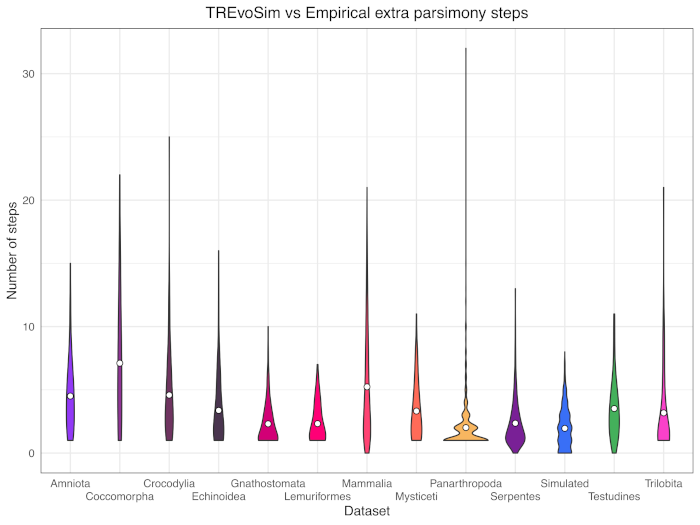
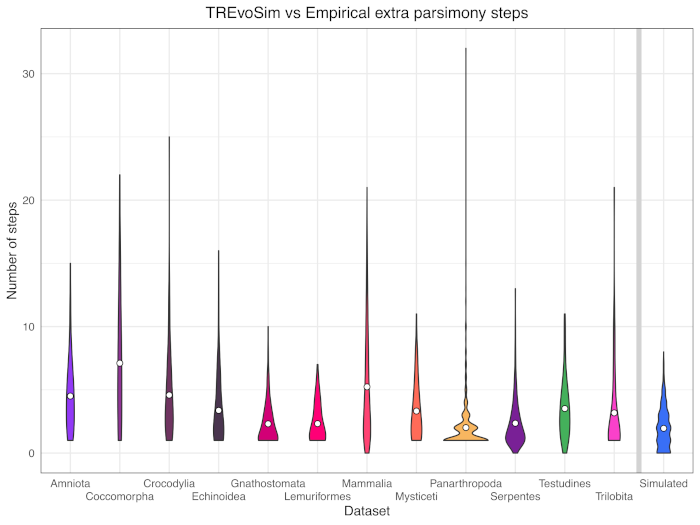
Update docs in incorporate changes to graphs from PR #50 and issue #6

Changed region(s): [[0.78, 0.061, 0.99, 0.9752], [0.78, 0.6095, 0.84, 0.8838]]

diff --git a/docs/algorithmconcepts.rst b/docs/algorithmconcepts.rst
@@ -28,7 +28,7 @@ To quantify the homoplasy within data generated under default settings, the scri
 .. figure:: _static/steps.png
     :align: center
 
-The TREvoSim data ("simulated"; actually the results for all characters of the first 25 replicates provided with in the repository) is shown in blue third from the right, all other datasets are labelled with taxonomic group, and represent the distribution of extra steps for all characters in the analysis. Note the log scale on the Y axis. The dots show the mean for each dataset. The number of extra steps against the comparison tree of choice (total evidence for empirical, true tree for TREvoSim data), is comparable across datasets.
+The TREvoSim data ("simulated"; actually the results for all characters of the first 25 replicates provided with in the repository) is shown far right, in blue; all other datasets are labelled with taxonomic group, and represent the distribution of extra steps for all characters in the analysis. The dots show the mean for each dataset. The number of extra steps against the comparison tree of choice (total evidence for empirical, true tree for TREvoSim data), is comparable across datasets.
 
 Tree shape - Asymmetry
 ^^^^^^^^^^^^^^^^^^^^^^
